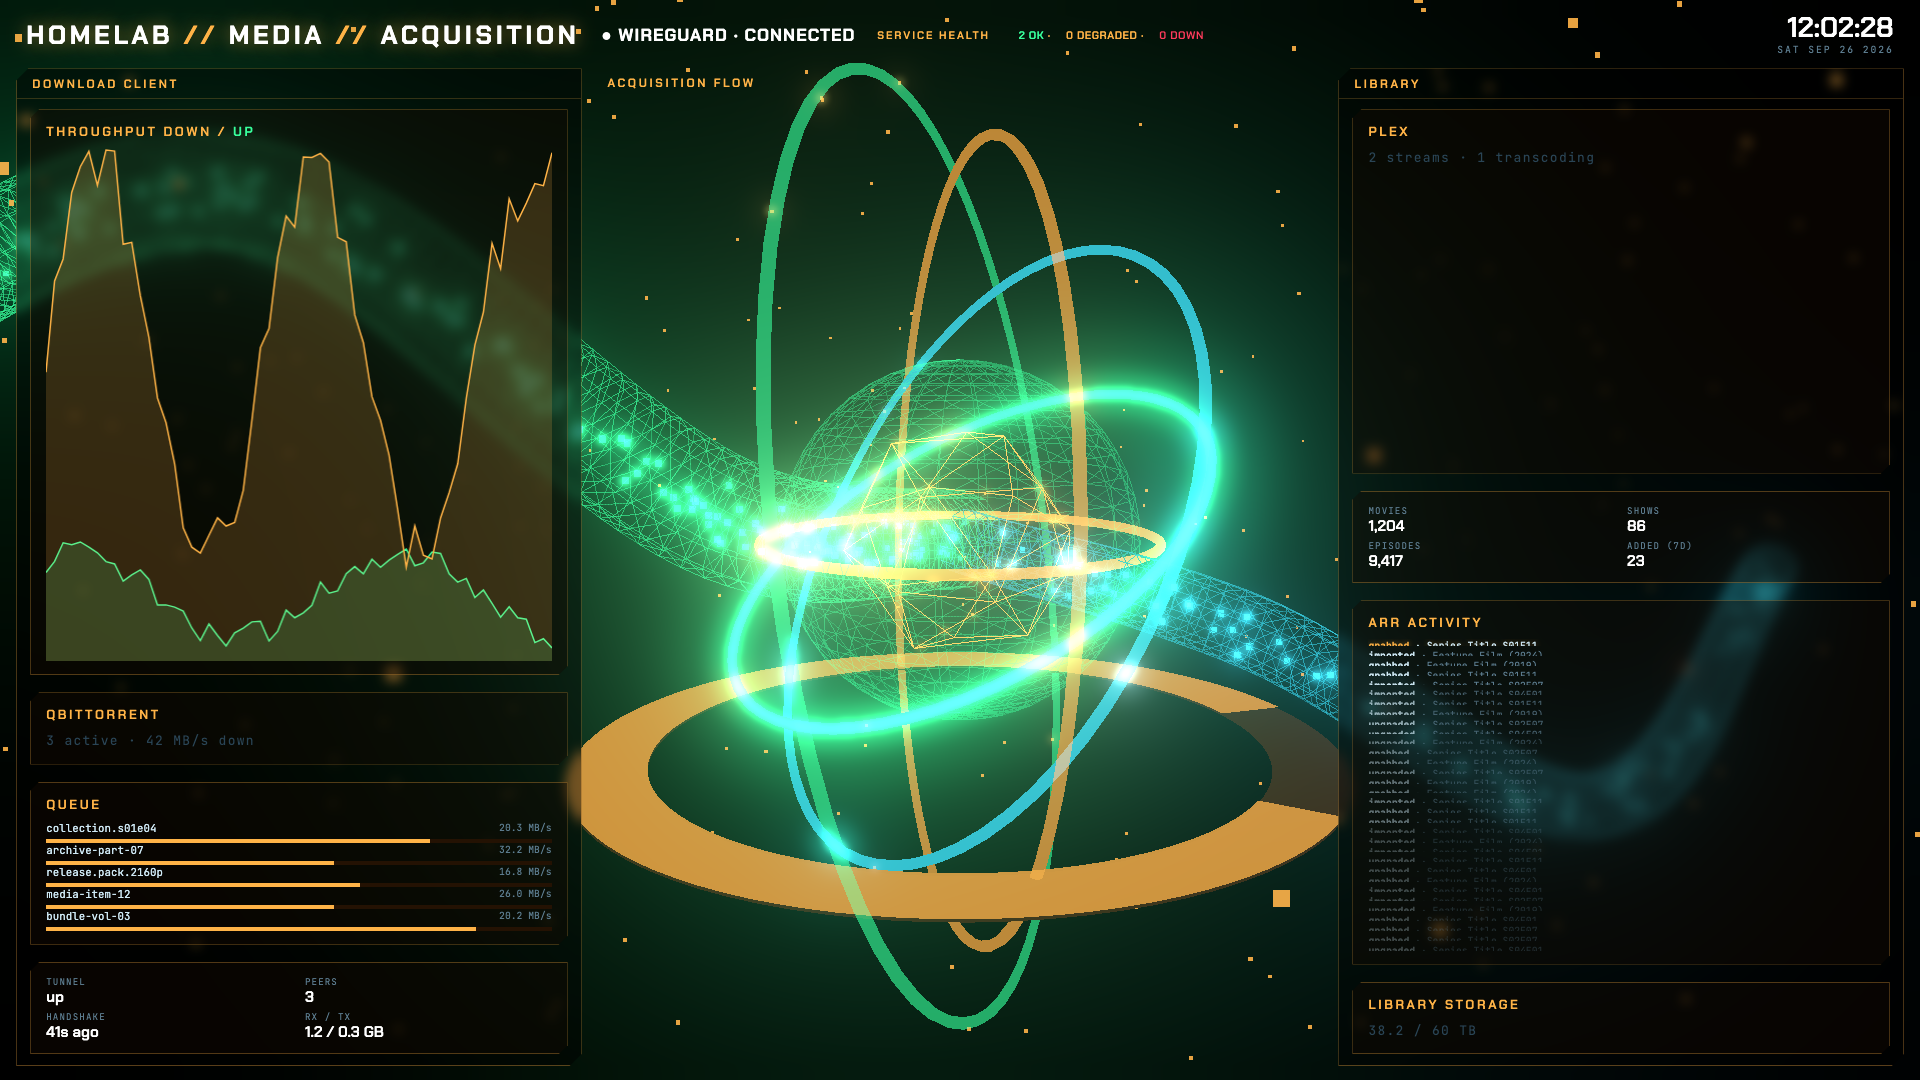
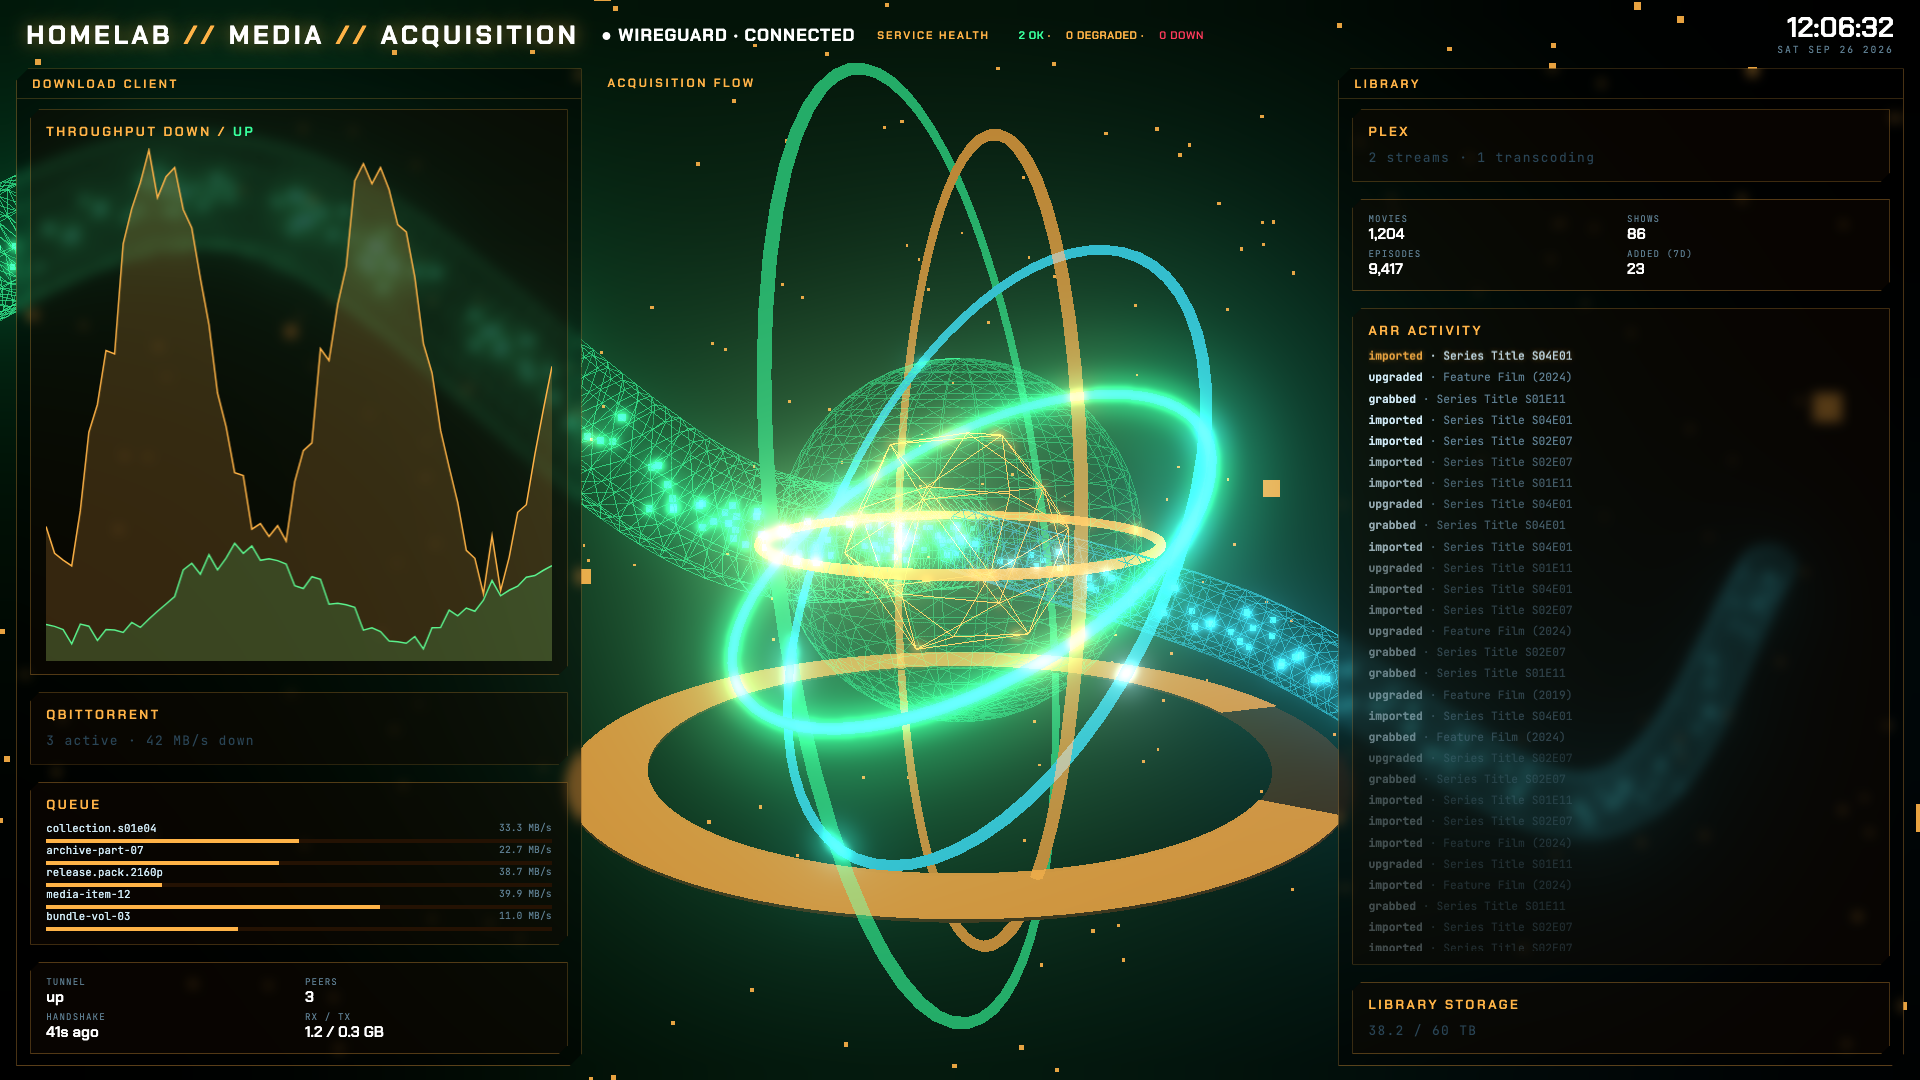
fix(wall): MC4 arr-feed legibility and MC2 header/feed contrast
Round-3 review fixes: the download-client flex-fill rule from the previous
pass was scoped too broadly and also stretched MC4's PLEX card, squeezing
the arr-activity feed rows below their own line-height; the fix scopes that
rule to the download-client column only and gives feed rows a fixed
flex:none height so the feed scrolls instead of compressing. On MC2, a dark
gradient scrim behind the header's top strip and a more opaque feed panel
background restore legibility against the hero scene's bloom.

Assisted-by: Claude:Sonnet 5
Claude-Session: https://claude.ai/code/session_01NMFoeki5AFRtcpDmd74e6T

diff --git a/site/mc4/mc4.css b/site/mc4/mc4.css
@@ -47,11 +47,12 @@ header{grid-column:1/-1;position:relative;z-index:1;display:flex;align-items:cen
 
 .cardbody{flex:1;min-height:0;overflow:auto;padding:clamp(6px,1vmin,12px) clamp(8px,1.2vmin,14px);
   display:flex;flex-direction:column;gap:clamp(10px,1.6vmin,20px)}
-/* No-empty-space fix: the throughput card (always first in .cardbody) grows to fill whatever
-   space the other, natural-height cards don't use, instead of the column centering fixed-height
-   cards with dead space above/below. */
-.cardbody>.card:first-child{flex:1;min-height:0;display:flex;flex-direction:column}
-.cardbody>.card:first-child .through{flex:1;height:auto;min-height:0}
+/* No-empty-space fix: the throughput card (always first in #acqbody, download client only —
+   NOT #pipebody, whose first card is PLEX's fixed-size stat card) grows to fill whatever space
+   the other, natural-height cards don't use, instead of the column centering fixed-height cards
+   with dead space above/below. */
+#acqbody>.card:first-child{flex:1;min-height:0;display:flex;flex-direction:column}
+#acqbody>.card:first-child .through{flex:1;height:auto;min-height:0}
 
 /* Legible download-client/library cards: bigger headline numbers, not tiny faint text
    (the live-wall finding) — .ct/.cn sizes bumped from the pre-hero-scene layout. */
@@ -72,7 +73,10 @@ header{grid-column:1/-1;position:relative;z-index:1;display:flex;align-items:cen
 .statgrid span{font-size:clamp(9px,.85vmin,10px);color:var(--dim);letter-spacing:.12em;text-transform:uppercase}
 .statgrid b{font:600 clamp(13px,1.4vmin,17px)/1 var(--disp);color:#fff}
 .afeed{flex:1;min-height:0;overflow:hidden;display:flex;flex-direction:column;gap:3px}
-.afrow{font-size:clamp(9px,.9vmin,11px);color:var(--dim);white-space:nowrap;overflow:hidden;text-overflow:ellipsis}
+/* flex:none — a flex column's default flex-shrink otherwise crushes these below their own
+   line-height as the feed grows, reading as overlapping/illegible text. The feed scrolls (its own
+   overflow:hidden clips excess rows out of view), it never compresses its rows to fit. */
+.afrow{flex:none;font-size:clamp(11px,1.05vmin,13px);line-height:1.6;color:var(--dim);white-space:nowrap;overflow:hidden;text-overflow:ellipsis}
 .afrow b{color:var(--ink);font-weight:600}
 .afrow:nth-child(n+6){opacity:.7}
 .afrow:nth-child(n+11){opacity:.45}

diff --git a/site/mc2/mc2.css b/site/mc2/mc2.css
@@ -20,6 +20,12 @@
 /* header */
 .mc2stage>header{grid-row:1;position:relative;z-index:2;min-width:0;min-height:0;overflow:hidden;
   display:flex;align-items:center;gap:clamp(10px,2vmin,26px)}
+/* Lead review (round 3): the hero scene's bloom/flares washed out header text (status readouts
+   unreadable) — a dark scrim behind the top ~90px, painted as header's own descendant so it still
+   sits above the fixed canvas (see the #globe stacking comment above), independent of the
+   header row's own (smaller) clamped height. */
+.mc2stage>header::before{content:"";position:fixed;inset:0 0 auto 0;height:90px;z-index:-1;
+  pointer-events:none;background:linear-gradient(to bottom,rgba(0,0,0,.72),rgba(0,0,0,0))}
 .brand{font:700 clamp(15px,2vmin,28px)/1 var(--disp);letter-spacing:.14em;color:#fff;
   text-shadow:0 0 18px rgba(255,59,92,.55);white-space:nowrap}
 .appstrip{flex:1;min-width:0;overflow:hidden}
@@ -37,7 +43,7 @@
 /* Dark-glass side panels: the hero scene shows through, text stays legible. `contain` is
    deliberately NOT used here (see the #globe comment above — it would make this panel a
    containing block for any position:fixed descendant). */
-.panel-glass{background:rgba(0,0,0,.45);border:1px solid rgba(255,59,92,.35);
+.panel-glass{background:rgba(0,0,0,.6);border:1px solid rgba(255,59,92,.35);
   backdrop-filter:blur(6px);-webkit-backdrop-filter:blur(6px)}
 /* The former hero-scene panel: frame and background gone, only the title (and any absolute
    overlay content, e.g. #tstats) remain, floating directly over the fullscreen canvas. */
